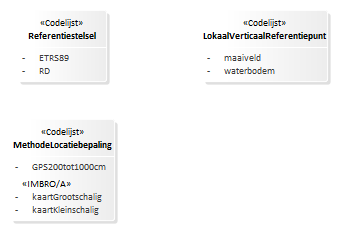
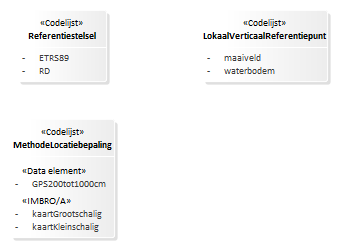
Conceptualmodel-SPRconceptueel-0.1-0-20180831-20180911-175442

diff --git a/data/SPR-cat.html b/data/SPR-cat.html
@@ -1,10 +1,10 @@
 <h2>Catalogus</h2>
 <p class="note" title="Over deze catalogus">
    Deze catalogus is automatisch samengesteld op basis van het UML model 
-   "SPR conceptueel" door Imvertor 1.47.1 op September 11, 2018 at 15:48:52.
+   "SPR conceptueel" door Imvertor 1.47.1 op September 11, 2018 at 15:54:40.
    <br>
    Wanneer je technische fouten of onvolkomenheden aantreft, geef dit dan door aan <i></i> en geef de code 
-   <i>"Conceptualmodel-SPRconceptueel-0.1-0-20180831-20180911-174854"</i> door. 
+   <i>"Conceptualmodel-SPRconceptueel-0.1-0-20180831-20180911-175442"</i> door. 
    
 </p><a class="anchor" name="global_package_DomeinmodelBROCommon"></a><section id="global_package_DomeinmodelBROCommon">
    <h3>Domein Domeinmodel BRO Common</h3>
@@ -17542,7 +17542,7 @@
                <tr>
                   <td></td>
                   <td>GPS200tot1000cm</td>
-                  <td></td>
+                  <td>Meting d.m.v. Global Positioning System, afwijking tussen 200 en 1000 centimeter.</td>
                </tr>
                <tr>
                   <td></td>
